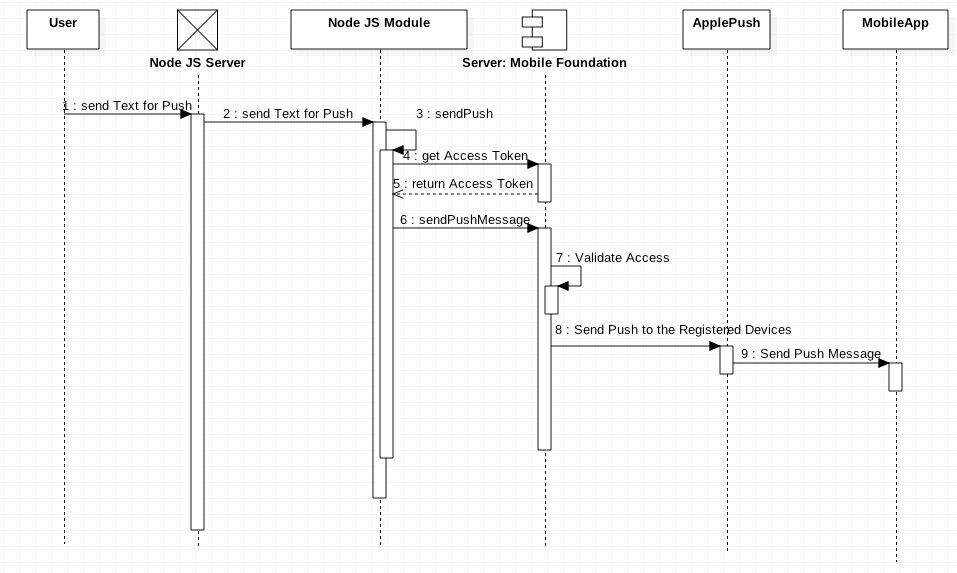
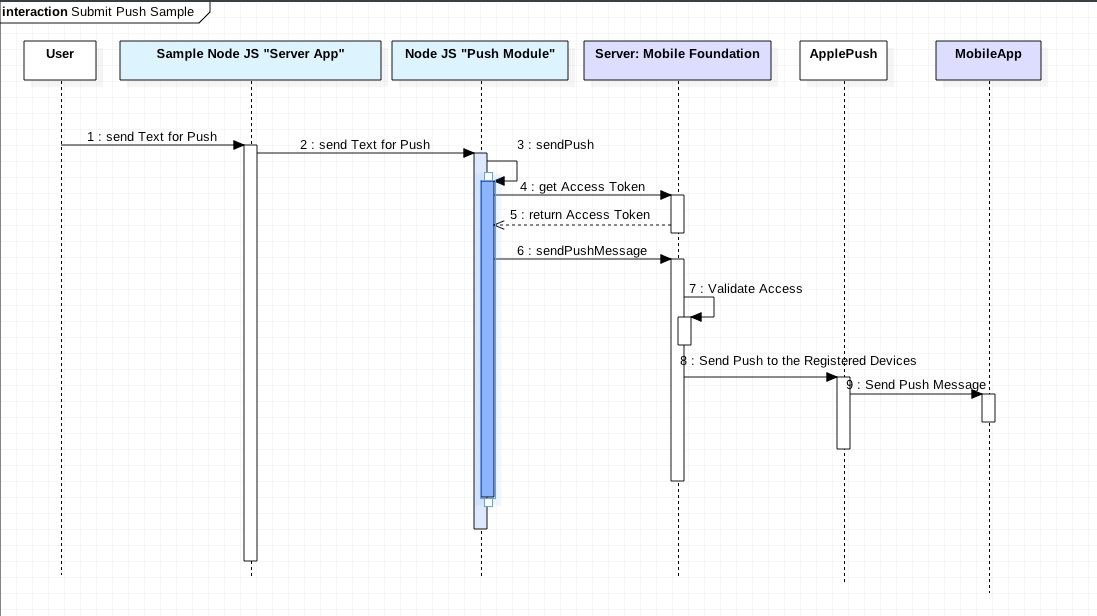
correct the Sequence Diagram and update the readme - Update Documentation

Changed region(s): [[0.0606, 0.178, 0.9394, 0.9197], [0.0, 0.0, 1.0, 0.1483]]

diff --git a/README.md b/README.md
@@ -25,7 +25,7 @@ The focus is only on the **Push Module**.
 ---
 ## Understanding and Overview
 
-This sequence diagram shows the sequence of the usage.
+This sequence diagram shows the sequence of the **NodeJS Push Module** usage.
 ![Services in Bluemix](Documentation/pushModuleSequence-2016-09-26_17-05-54.jpg)
 
 This is the sample **Node JS app UI** you can use to test the **push module**.
@@ -35,6 +35,8 @@ This is the sample **Node JS app UI** you can use to test the **push module**.
 ### Setup of the Push Module
 The relevant code for setup the **push module** in the **app.js file**
 https://github.com/thomassuedbroecker/MobileFirstPushV8OnNodeJS/blob/master/app.js
+
+In the app file you have to configure the following Variables to your needs.
 
         //******************************************************************************
         // Variables for the Module Usage - Push with MobileFirstFoundation service
@@ -69,7 +71,11 @@ https://github.com/thomassuedbroecker/MobileFirstPushV8OnNodeJS/blob/master/app.
 
 ---
 ### Usage of the Push Module
-The relevant code for setup the **push module** in the **app.js file**
+
+The `app.post('/sendPush', function(req, res)` shows the usage of the **Push Module**.
+You verify the input message, which should be send as a Push and the you use the
+callback function of the **Push Module**.
+
 https://github.com/thomassuedbroecker/MobileFirstPushV8OnNodeJS/blob/master/app.js
 
        /*************************************************
